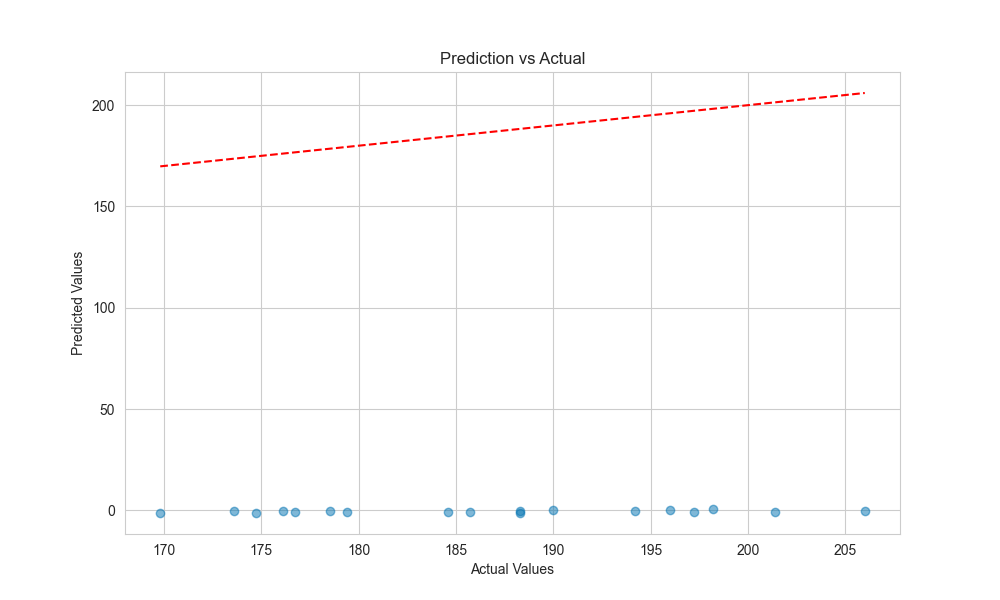
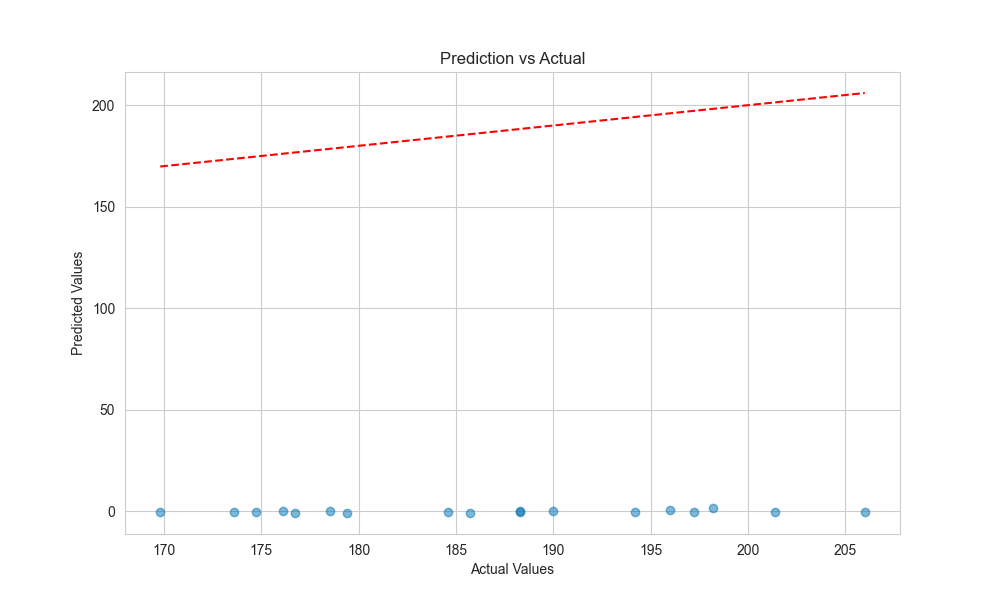
update plot

diff --git a/main.py b/main.py
@@ -139,7 +139,7 @@ X_test_tensor = torch.tensor(X_test_scaled, dtype=torch.float32)
 y_train_tensor = torch.tensor(y_train.values, dtype=torch.float32).unsqueeze(1)
 y_test_tensor = torch.tensor(y_test.values, dtype=torch.float32).unsqueeze(1)
 
-batch_size = 32
+batch_size = 64
 train_dataset = TensorDataset(X_train_tensor, y_train_tensor)
 test_dataset = TensorDataset(X_test_tensor, y_test_tensor)
 train_loader = DataLoader(train_dataset, batch_size=batch_size, shuffle=True, pin_memory=True)
@@ -365,6 +365,34 @@ print("Random Forest Regressor")
 print(f'Mean Absolute Error: {mae_rf:.4f}')
 print(f'Mean Squared Error: {mse_rf:.4f}')
 print(f'Root Mean Squared Error: {rmse_rf:.4f}')
+
+training_loss = []
+
+# Train the model and record the training loss
+for i in range(1, 101):
+    rf.set_params(n_estimators=i)
+    rf.fit(X_train, y_train)
+    y_train_pred = rf.predict(X_train)
+    mse = mean_squared_error(y_train, y_train_pred)
+    training_loss.append(mse)
+
+plt.figure(figsize=(10, 6))
+plt.plot(range(1, 101), training_loss, marker='o', linestyle='-', color='b')
+plt.xlabel('Number of Trees')
+plt.ylabel('Training Loss (MSE)')
+plt.title('Training Loss of Random Forest Regressor')
+plt.savefig("figure/training_loss_rf.png")
+plt.close()
+
+plt.figure(figsize=(10, 6))
+plt.scatter(y_test, rf_preds, alpha=0.5, color='b')
+plt.plot([y_test.min(), y_test.max()], [y_test.min(), y_test.max()], 'r--', lw=2)
+plt.xlabel('Actual Values')
+plt.ylabel('Predicted Values')
+plt.title('Random Forest Regressor: Predictions vs Actual Values')
+plt.grid(True)
+plt.savefig("figure/prediction_vs_actual_rf.png")
+plt.close()
 
 models_data = {
     'Model': ['Gradient Boosting', 'Random Forest Regressor', 'Linear Regression', 
